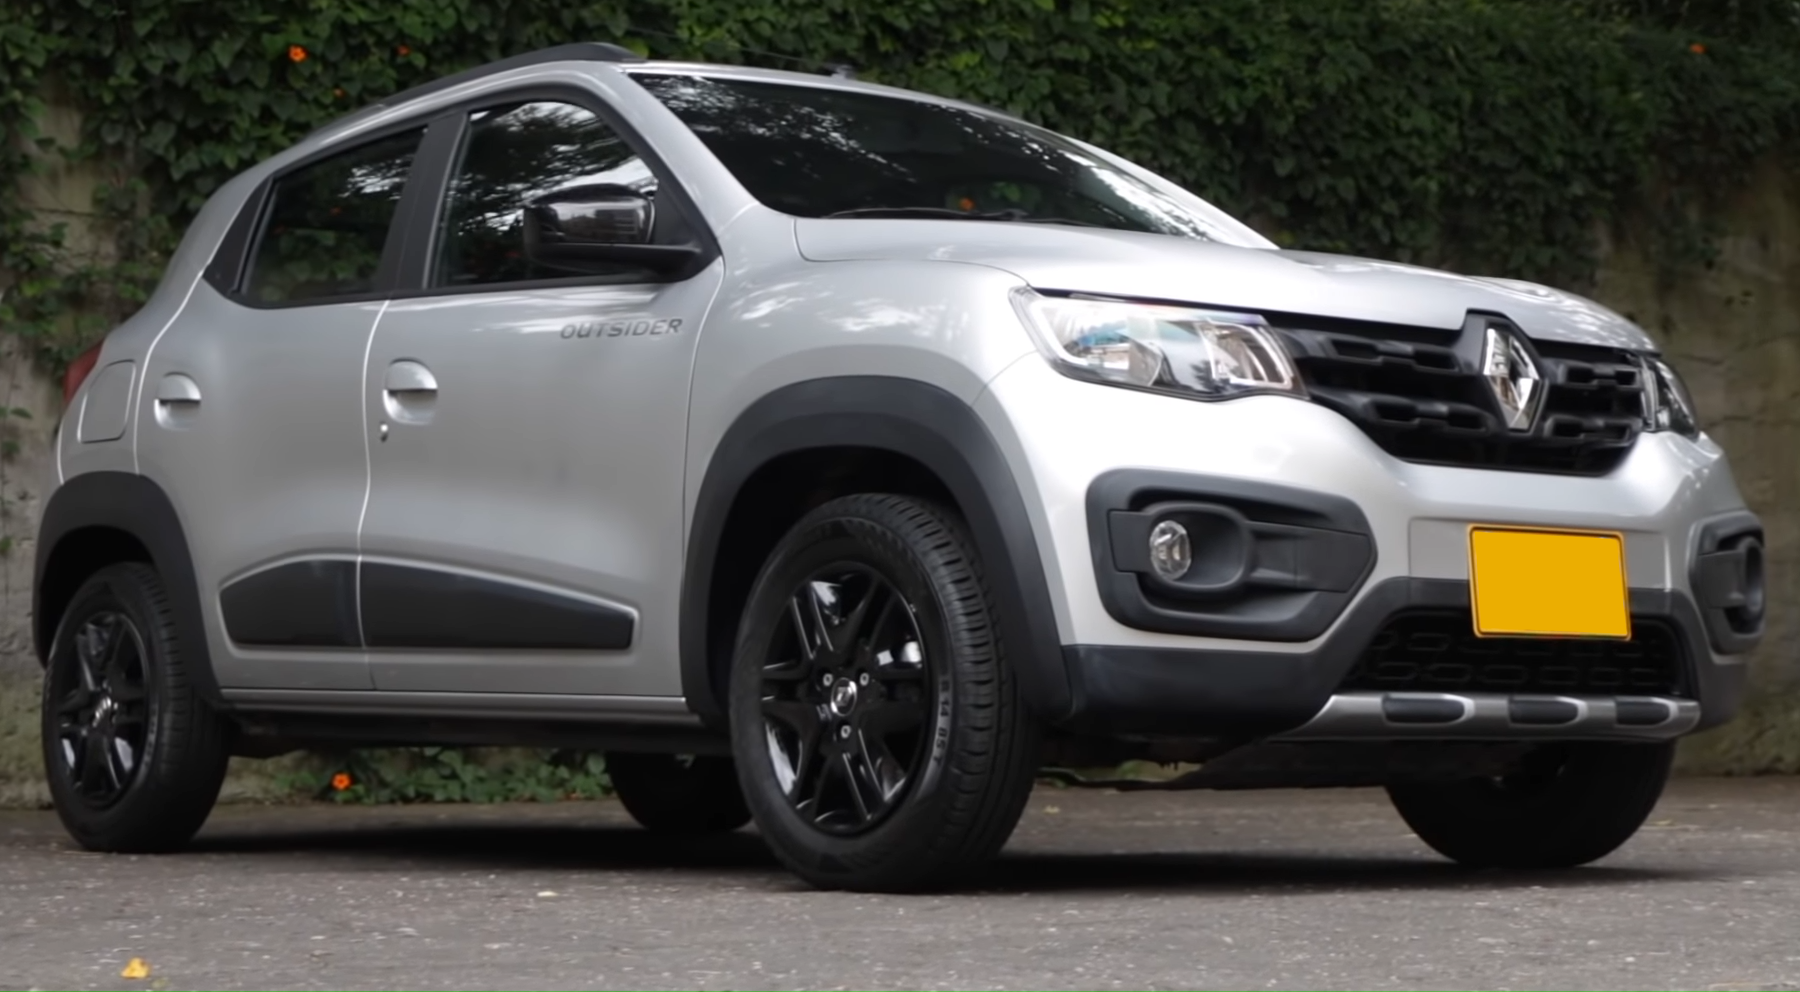
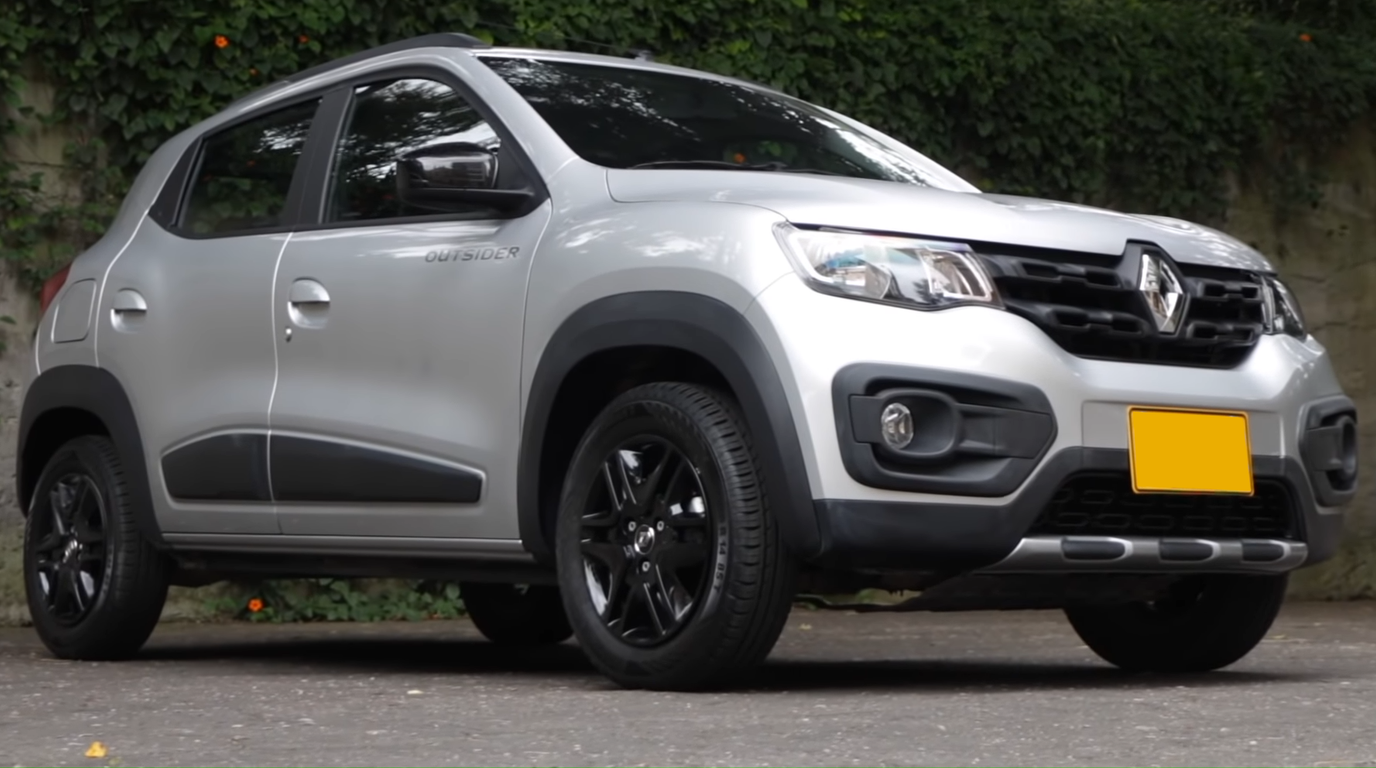
fix(fleet): equalize all car image dimensions and frames to identical 16:9 ratio (1376x768)

diff --git a/app/page.js b/app/page.js
@@ -855,7 +855,7 @@ export default function Home() {
                           loading="lazy"
                           decoding="async"
                           width={480}
-                          height={320}
+                          height={270}
                         />
                       </div>
 
@@ -1793,7 +1793,7 @@ export default function Home() {
                     height={70}
                     loading="lazy"
                     decoding="async"
-                    style={{ width: "120px", height: "70px", objectFit: "contain", borderRadius: "8px", background: "#f8f9fa" }}
+                    style={{ width: "120px", height: "70px", objectFit: "cover", borderRadius: "8px", background: "#f8f9fa" }}
                   />
                   <div>
                     <h3 style={{ fontSize: "1.25rem", fontWeight: 700 }}>{selectedCarModal.name}</h3>

diff --git a/app/globals.css b/app/globals.css
@@ -2904,22 +2904,31 @@ a {
 
 .car-photo-area {
   width: 100%;
-  height: 135px;
+  aspect-ratio: 16 / 9;
+  height: 155px;
   display: flex;
   align-items: center;
   justify-content: center;
   margin: 10px 0 14px 0;
+  border-radius: 10px;
+  overflow: hidden;
+  background: #f1f5f9;
+  border: 1px solid #e2e8f0;
+  position: relative;
 }
 
 .car-photo-area img {
-  max-width: 100%;
-  max-height: 100%;
-  object-fit: contain;
+  width: 100% !important;
+  height: 100% !important;
+  max-width: 100% !important;
+  max-height: 100% !important;
+  object-fit: cover !important;
+  display: block !important;
   transition: transform 0.4s ease;
 }
 
 .car-catalog-card:hover .car-photo-area img {
-  transform: scale(1.06);
+  transform: scale(1.05);
 }
 
 .car-specs-ribbon {
